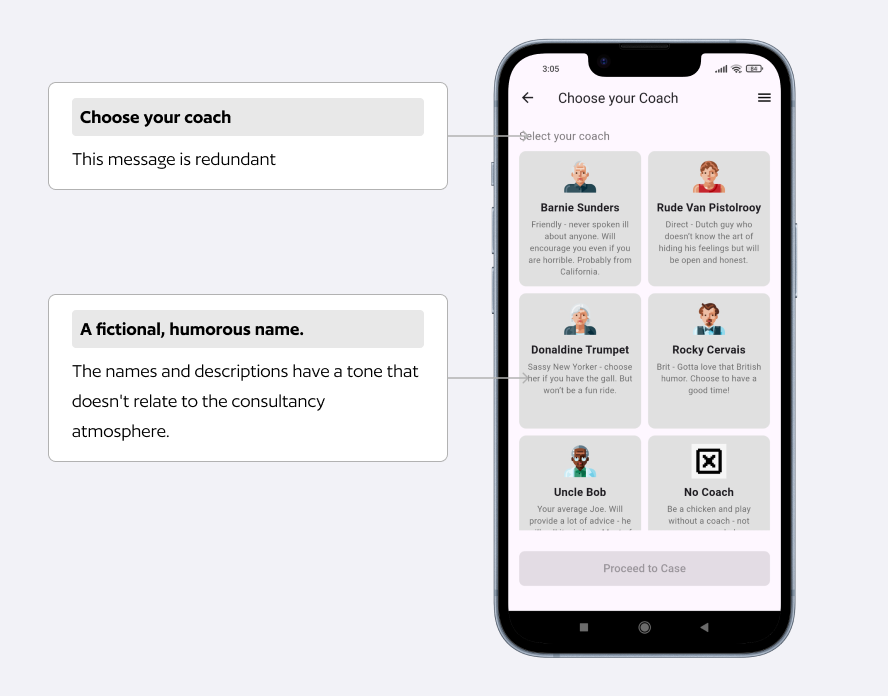
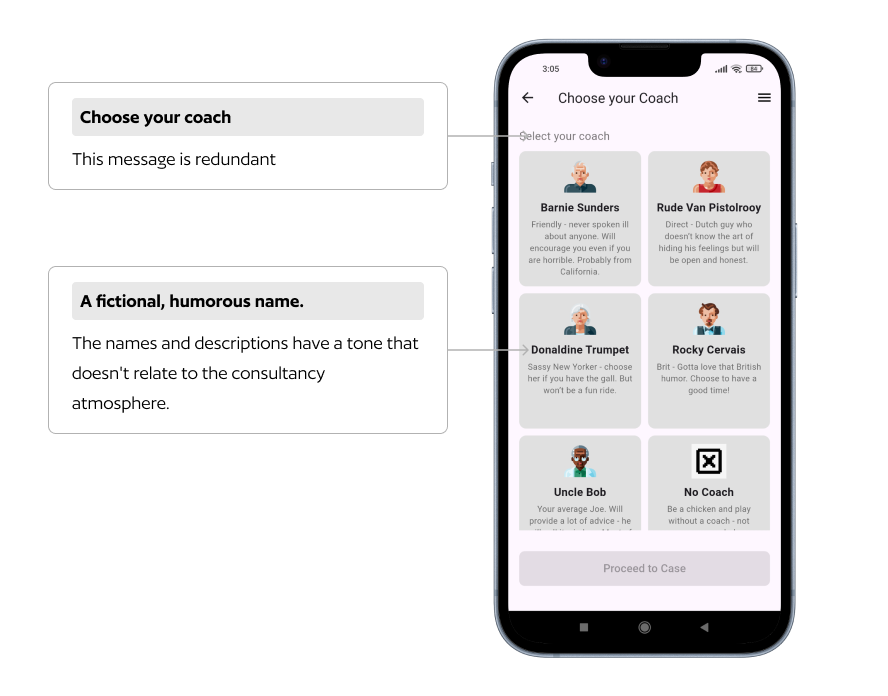
feat(microcasing): DiscoveryPong game — discovery section interactive Pong with Q&A mechanic, sky-blue palette, centred layout

Changed region(s): [[0.0608, 0.4224, 0.4865, 0.5431], [0.0608, 0.5733, 0.3649, 0.6336]]

diff --git a/src/components/DiscoveryPong.tsx b/src/components/DiscoveryPong.tsx
@@ -1,0 +1,346 @@
+import { useRef, useEffect, useState } from "react";
+
+const W = 800, H = 460;
+const SIDE = 46;
+const PAD = { w: 10, h: 72, r: 5 };
+const BALL_R = 7;
+const GAME_H = H - 96;
+const BASE_SPEED = 5;
+const GRID = 28;
+
+const QUESTIONS = [
+  { q: "Core Purpose and Mission",  a: "Build better decision makers" },
+  { q: "Core Values",               a: "Competition improves quality and decision making" },
+  { q: "Admired Brands and Apps",   a: "Revolut, Duolingo, Elevate" },
+  { q: "Definition of Success",     a: "Clean UI, 3-step access to cases, scalable to other products" },
+];
+
+const C = {
+  bg:      "#f2f2f0",
+  dot:     "rgba(0,0,0,0.065)",
+  center:  "rgba(0,0,0,0.05)",
+  pad:     "#1d2939",
+  ball:    "#93c5fd",
+  bracket: "#93c5fd",
+  textDim: "rgba(0,0,0,0.28)",
+  dim:     "rgba(242,242,240,0.86)",
+};
+
+type GameState = "idle" | "playing" | "win" | "lose";
+type Phase = "waiting" | "asking" | "answered";
+type Display = null | { type: "q" | "a"; qIdx: number };
+
+interface UiState {
+  gameState: GameState;
+  filledBars: number;
+  display: Display;
+}
+
+export function DiscoveryPong() {
+  const cvs = useRef<HTMLCanvasElement>(null);
+  const raf = useRef(0);
+  const g = useRef({
+    bx: W / 2, by: GAME_H / 2,
+    bvx: BASE_SPEED, bvy: BASE_SPEED * 0.3,
+    ly: GAME_H / 2 - PAD.h / 2,
+    ry: GAME_H / 2 - PAD.h / 2,
+    mouseY: GAME_H / 2,
+    qIdx: 0,
+    filledBars: 0,
+    phase: "waiting" as Phase,
+    state: "idle" as GameState,
+  });
+
+  const [ui, setUi] = useState<UiState>({
+    gameState: "idle",
+    filledBars: 0,
+    display: null,
+  });
+
+  useEffect(() => {
+    const canvas = cvs.current;
+    if (!canvas) return;
+    const ctx = canvas.getContext("2d")!;
+
+    function drawDotGrid() {
+      ctx.fillStyle = C.dot;
+      for (let x = GRID; x < W; x += GRID)
+        for (let y = GRID; y < GAME_H; y += GRID) {
+          ctx.beginPath(); ctx.arc(x, y, 1, 0, Math.PI * 2); ctx.fill();
+        }
+    }
+
+    function drawLabel(text: string, cx: number, paddleY: number) {
+      ctx.save();
+      ctx.translate(cx, paddleY + PAD.h / 2);
+      ctx.rotate(-Math.PI / 2);
+      ctx.font = "600 13px 'Space Grotesk', sans-serif";
+      ctx.fillStyle = "rgba(0,0,0,0.42)";
+      ctx.textAlign = "center";
+      ctx.textBaseline = "middle";
+      ctx.fillText(text.toUpperCase(), 0, 0);
+      ctx.restore();
+    }
+
+    function draw() {
+      const { bx, by, ly, ry, state } = g.current;
+
+      ctx.fillStyle = C.bg;
+      ctx.fillRect(0, 0, W, H);
+      drawDotGrid();
+
+      ctx.save();
+      ctx.setLineDash([4, 12]);
+      ctx.strokeStyle = C.center;
+      ctx.lineWidth = 1;
+      ctx.beginPath(); ctx.moveTo(W / 2, 0); ctx.lineTo(W / 2, GAME_H); ctx.stroke();
+      ctx.restore();
+
+      drawLabel("Shankar", 18, ly);
+      drawLabel("Me", W - 18, ry);
+
+      ctx.fillStyle = C.pad;
+      ctx.beginPath(); (ctx as any).roundRect(SIDE - PAD.w, ly, PAD.w, PAD.h, PAD.r); ctx.fill();
+      ctx.beginPath(); (ctx as any).roundRect(W - SIDE, ry, PAD.w, PAD.h, PAD.r); ctx.fill();
+
+      if (state === "playing") {
+        ctx.beginPath(); ctx.arc(bx, by, BALL_R, 0, Math.PI * 2);
+        ctx.fillStyle = C.ball; ctx.fill();
+      }
+
+      if (state !== "playing") {
+        ctx.fillStyle = C.dim;
+        ctx.fillRect(0, 0, W, GAME_H);
+        if (state === "idle") {
+          ctx.font = "500 13px 'Space Grotesk', sans-serif";
+          ctx.fillStyle = C.textDim;
+          ctx.textAlign = "center";
+          ctx.textBaseline = "alphabetic";
+          ctx.fillText("CLICK OR PRESS ANY KEY TO START", W / 2, GAME_H / 2 + 5);
+        }
+      }
+    }
+
+    function launch() {
+      const s = g.current;
+      s.bx = W / 2; s.by = GAME_H / 2;
+      s.bvx = BASE_SPEED;
+      s.bvy = (Math.random() * 2 - 1) * BASE_SPEED * 0.4;
+      s.qIdx = 0; s.filledBars = 0; s.phase = "waiting";
+      s.ly = GAME_H / 2 - PAD.h / 2;
+      s.ry = GAME_H / 2 - PAD.h / 2;
+      s.state = "playing";
+      setUi({ gameState: "playing", filledBars: 0, display: null });
+    }
+
+    function tick() {
+      const s = g.current;
+
+      if (s.state === "playing") {
+        const aiTarget = s.by - PAD.h / 2;
+        s.ly += Math.sign(aiTarget - s.ly) * Math.min(Math.abs(aiTarget - s.ly), 3.6);
+        s.ly = Math.max(0, Math.min(GAME_H - PAD.h, s.ly));
+
+        s.ry += (s.mouseY - PAD.h / 2 - s.ry) * 0.14;
+        s.ry = Math.max(0, Math.min(GAME_H - PAD.h, s.ry));
+
+        s.bx += s.bvx; s.by += s.bvy;
+
+        if (s.by - BALL_R <= 0)      { s.by = BALL_R;          s.bvy =  Math.abs(s.bvy); }
+        if (s.by + BALL_R >= GAME_H) { s.by = GAME_H - BALL_R; s.bvy = -Math.abs(s.bvy); }
+
+        const lx = SIDE - PAD.w;
+        // Shankar (left paddle) returns → answer appears
+        if (s.bvx < 0 && s.bx - BALL_R <= lx + PAD.w && s.by >= s.ly && s.by <= s.ly + PAD.h) {
+          s.bx = lx + PAD.w + BALL_R;
+          s.bvx = Math.abs(s.bvx) * 1.04;
+          s.bvy = ((s.by - s.ly - PAD.h / 2) / (PAD.h / 2)) * BASE_SPEED * 0.75;
+          if (s.phase === "asking" && s.qIdx < QUESTIONS.length) {
+            const answered = s.qIdx;
+            s.filledBars++;
+            s.qIdx++;
+            s.phase = "answered";
+            if (s.qIdx >= QUESTIONS.length) {
+              s.state = "win";
+              setUi({ gameState: "win", filledBars: s.filledBars, display: { type: "a", qIdx: answered } });
+            } else {
+              setUi(u => ({ ...u, filledBars: s.filledBars, display: { type: "a", qIdx: answered } }));
+            }
+          }
+        }
+
+        const rx = W - SIDE;
+        // Me (right paddle) hits → question appears
+        if (s.bvx > 0 && s.bx + BALL_R >= rx && s.by >= s.ry && s.by <= s.ry + PAD.h) {
+          s.bx = rx - BALL_R;
+          s.bvx = -(Math.abs(s.bvx) * 1.04);
+          s.bvy = ((s.by - s.ry - PAD.h / 2) / (PAD.h / 2)) * BASE_SPEED * 0.75;
+          if (s.qIdx < QUESTIONS.length) {
+            s.phase = "asking";
+            setUi(u => ({ ...u, display: { type: "q", qIdx: s.qIdx } }));
+          }
+        }
+
+        const spd = Math.hypot(s.bvx, s.bvy);
+        if (spd > BASE_SPEED * 2.2) { s.bvx = (s.bvx / spd) * BASE_SPEED * 2.2; s.bvy = (s.bvy / spd) * BASE_SPEED * 2.2; }
+
+        // Shankar misses — just reset, no penalty
+        if (s.bx < 0) {
+          if (s.phase === "asking") s.phase = "waiting";
+          s.bx = W / 2; s.by = GAME_H / 2; s.bvx = BASE_SPEED; s.bvy = (Math.random() * 2 - 1) * BASE_SPEED * 0.4;
+        }
+
+        // Me misses — immediate lose
+        if (s.bx > W) {
+          s.state = "lose";
+          setUi(u => ({ ...u, gameState: "lose" }));
+        }
+      }
+
+      draw();
+      raf.current = requestAnimationFrame(tick);
+    }
+
+    const onMouseMove = (e: MouseEvent) => {
+      const rect = canvas.getBoundingClientRect();
+      g.current.mouseY = (e.clientY - rect.top) * (H / rect.height);
+    };
+    const onStart = () => { if (g.current.state !== "playing") launch(); };
+
+    canvas.addEventListener("mousemove", onMouseMove);
+    canvas.addEventListener("click", onStart);
+    window.addEventListener("keydown", onStart);
+    raf.current = requestAnimationFrame(tick);
+
+    return () => {
+      cancelAnimationFrame(raf.current);
+      canvas.removeEventListener("mousemove", onMouseMove);
+      canvas.removeEventListener("click", onStart);
+      window.removeEventListener("keydown", onStart);
+    };
+  }, []);
+
+  const isOver = ui.gameState === "win" || ui.gameState === "lose";
+
+  const displayInfo = ui.display !== null ? (() => {
+    const { type, qIdx } = ui.display;
+    const { q, a } = QUESTIONS[qIdx];
+    return {
+      label: type === "q" ? "QUESTION" : q.toUpperCase(),
+      text: type === "q" ? q : a,
+    };
+  })() : null;
+
+  return (
+    <div style={{ position: "relative", width: "100%", maxWidth: W, borderRadius: 16, overflow: "hidden", cursor: "none", border: "1px solid rgba(0,0,0,0.07)" }}>
+      <canvas
+        ref={cvs}
+        width={W}
+        height={H}
+        style={{ width: "100%", height: "auto", display: "block" }}
+        aria-label="Discovery session: Shankar vs Me"
+        tabIndex={0}
+      />
+
+      {/* Q&A text */}
+      {ui.gameState !== "idle" && displayInfo && (
+        <div style={{
+          position: "absolute",
+          left: 0, right: 0,
+          bottom: "calc(14px + 4px + 14px)",
+          textAlign: "center",
+          pointerEvents: "none",
+          fontFamily: "'Space Grotesk', sans-serif",
+        }}>
+          <div style={{ fontSize: 10, fontWeight: 500, color: "rgba(0,0,0,0.38)", textTransform: "uppercase", letterSpacing: "0.1em", marginBottom: 6 }}>
+            {displayInfo.label}
+          </div>
+          <div style={{ fontSize: 15, fontWeight: 600, color: "#1d2939" }}>
+            {displayInfo.text}
+          </div>
+        </div>
+      )}
+
+      {/* Win / Lose overlay */}
+      {isOver && (
+        <div
+          aria-live="polite"
+          aria-atomic="true"
+          style={{
+            position: "absolute",
+            left: "clamp(88px, 16vw, 132px)",
+            right: "clamp(88px, 16vw, 132px)",
+            top: 0,
+            height: `${(GAME_H / H) * 100}%`,
+            display: "flex",
+            alignItems: "center",
+            justifyContent: "center",
+            pointerEvents: "none",
+            textAlign: "center",
+          }}
+        >
+          <div>
+            <div
+              className="pong-win-msg"
+              style={{
+                color: ui.gameState === "win" ? "#16a34a" : "#dc2626",
+                fontSize: "clamp(16px, 3vw, 26px)",
+                fontWeight: 700,
+                lineHeight: 1.12,
+                fontFamily: "'Space Grotesk', sans-serif",
+              }}
+            >
+              {ui.gameState === "win"
+                ? "We are ready to start!"
+                : "We need more information!"}
+            </div>
+            <div
+              style={{
+                display: "inline-block",
+                marginTop: 22,
+                padding: "8px 12px",
+                background: "#1d2939",
+                color: "#f2f2f0",
+                fontFamily: "'Roboto Mono', monospace",
+                fontSize: "clamp(10px, 1.8vw, 13px)",
+                fontWeight: 700,
+                lineHeight: 1,
+              }}
+            >
+              CLICK OR PRESS ANY KEY TO PLAY AGAIN
+            </div>
+          </div>
+        </div>
+      )}
+
+      {/* Progress bar */}
+      {ui.gameState !== "idle" && (
+        <div
+          aria-hidden="true"
+          style={{
+            position: "absolute",
+            left: "clamp(88px, 12vw, 140px)",
+            right: "clamp(88px, 12vw, 140px)",
+            bottom: 14,
+            display: "flex",
+            justifyContent: "center",
+            gap: 4,
+            pointerEvents: "none",
+          }}
+        >
+          {QUESTIONS.map((q, i) => (
+            <div
+              key={i}
+              title={`${q.q}: ${q.a}`}
+              style={{
+                width: 32, height: 4, border: 0,
+                background: ui.filledBars > i ? "#93c5fd" : "rgba(0,0,0,0.12)",
+                transition: "background 400ms ease",
+              }}
+            />
+          ))}
+        </div>
+      )}
+    </div>
+  );
+}

diff --git a/src/MicrocasingApp.tsx b/src/MicrocasingApp.tsx
@@ -207,19 +207,21 @@ export default function MicrocasingApp() {
             <p className="mc-body-text" style={{ marginTop: 0, maxWidth: "62ch" }}>
               Before opening Figma, Shankar and I took the time to answer a Notion file for a discovery questionnaire where we align and define the vision, target audience, tone, and competitive positioning from the Micro-casing app.
             </p>
-            <DiscoveryPong />
-            <div style={{ display: "flex", justifyContent: "flex-end", marginTop: 24 }}>
-              <a
-                href="https://app.notion.com/p/Discovery-Questionnaire-Micro-Casing-App-Case-2ec0f72674e48086bb8bf6199c76c27e"
-                target="_blank"
-                rel="noreferrer"
-                className="mc-discovery-btn"
-              >
-                Discovery Questionnaire
-                <svg width="10" height="10" viewBox="0 0 20.329 20.329" fill="none" aria-hidden="true" style={{ opacity: 0.4, flexShrink: 0 }}>
-                  <path d="M 1.713 20.329 L 0 18.617 L 16.141 2.46 L 1.467 2.46 L 1.467 0 L 20.329 0 L 20.329 18.863 L 17.869 18.863 L 17.869 4.189 Z" fill="currentColor"/>
-                </svg>
-              </a>
+            <div style={{ width: "100%", maxWidth: 800, margin: "0 auto", display: "flex", flexDirection: "column" }}>
+              <DiscoveryPong />
+              <div style={{ display: "flex", justifyContent: "flex-end", marginTop: 24 }}>
+                <a
+                  href="https://app.notion.com/p/Discovery-Questionnaire-Micro-Casing-App-Case-2ec0f72674e48086bb8bf6199c76c27e"
+                  target="_blank"
+                  rel="noreferrer"
+                  className="mc-discovery-btn"
+                >
+                  Discovery Questionnaire
+                  <svg width="10" height="10" viewBox="0 0 20.329 20.329" fill="none" aria-hidden="true" style={{ opacity: 0.4, flexShrink: 0 }}>
+                    <path d="M 1.713 20.329 L 0 18.617 L 16.141 2.46 L 1.467 2.46 L 1.467 0 L 20.329 0 L 20.329 18.863 L 17.869 18.863 L 17.869 4.189 Z" fill="currentColor"/>
+                  </svg>
+                </a>
+              </div>
             </div>
           </div>
         </section>

diff --git a/src/MicrocasingApp.css b/src/MicrocasingApp.css
@@ -1,5 +1,5 @@
 .mc-page {
-  background: #f2f2f0;
+  background: #ffffff;
 }
 
 /* case study scroll-spy nav */
@@ -636,8 +636,8 @@
 
 .mc-magnifier {
   position: absolute;
-  width: 180px;
-  height: 180px;
+  width: 240px;
+  height: 240px;
   border-radius: 50%;
   transform: translate(-50%, -50%);
   pointer-events: none;
